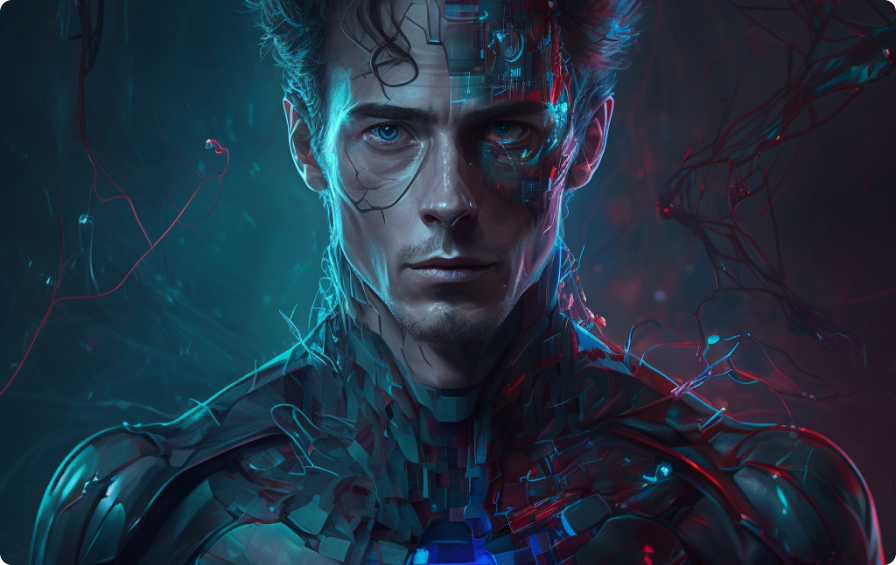
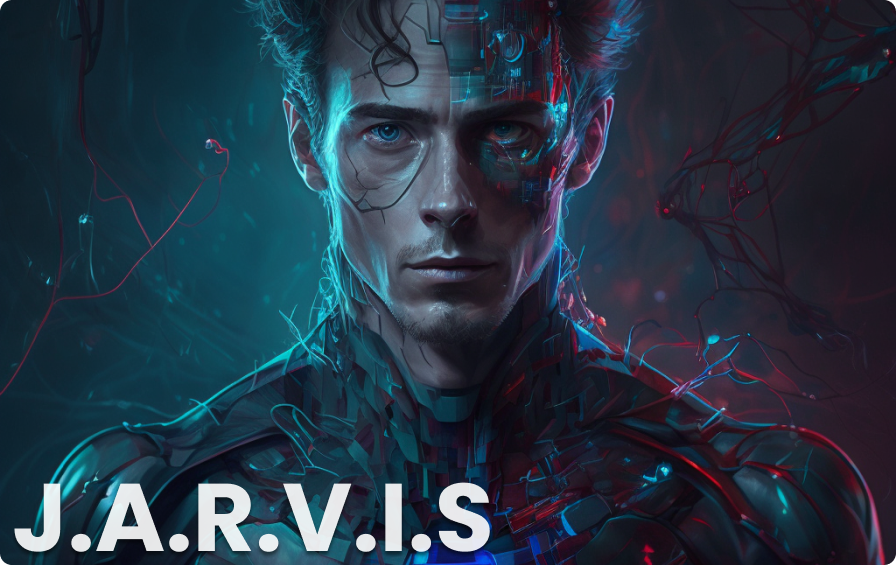
added image animation for hover

Changed region(s): [[0.0, 0.8425, 0.5625, 0.9929]]

diff --git a/src/components/portfolio/FeaturedProjectCard.tsx b/src/components/portfolio/FeaturedProjectCard.tsx
@@ -18,31 +18,36 @@ const FeaturedProjectCard = (props: Props) => {
   return (
     <div className="mt-8">
       <div className="relative m-auto text-[#00ADB5]">
-        <div className="relative mb-1 text-[14px]">Featured Project</div>
+        <div className="relative mb-1 text-[14px] lg:ml-[180px]">
+          Featured Project
+        </div>
       </div>
-      <img
-        className="hidden sm:w-full sm:justify-center sm:overflow-hidden sm:opacity-30 sm:hover:opacity-100 md:w-[50%]"
-        src={props.image}
-        alt="project image"
-      />
-      <div className="relative m-auto w-[100%] rounded-xl bg-[#393E46] p-8 text-[14px] text-white shadow-xl drop-shadow-lg lg:w-[70%]">
+
+      <div className="relative  m-auto w-[100%] rounded-xl bg-[#393E46] p-8 text-[14px] text-white shadow-xl drop-shadow-lg lg:w-[70%]">
+        <img
+          className=" mx-auto hidden transform shadow-xl transition-all duration-300 hover:scale-105 sm:block sm:w-3/4 sm:justify-center sm:overflow-hidden sm:opacity-30 sm:hover:opacity-100  md:w-[80%]"
+          src={props.image}
+          alt="project image"
+        />
         <div
           className={`mb-8 text-center text-5xl font-bold drop-shadow-lg md:text-6xl lg:text-7xl ${props.fontFamily}`}
         >
           {props.title}
         </div>
-
         <div className="text-center text-[14px] font-normal text-[#EEEEEE] underline">
           Built with:
         </div>
         <div className="flex items-center justify-center ">
           {props.techUsed.map((tech) => (
             <div className="mr-1 inline-block rounded-md text-end text-[12px] text-white">
-              <img className="mt-2 h-10 w-10" src={tech} alt="Skill Icons" />
+              <img
+                className="mt-2 h-10 w-10 md:h-12 md:w-12 "
+                src={tech}
+                alt="Skill Icons"
+              />
             </div>
           ))}
         </div>
-
         <div className="mx-auto mb-4 mt-8 h-[1px] w-[70%] bg-[#00ADB5] text-center drop-shadow-md"></div>
         <div className="mx-auto w-[80%] text-[14px] font-normal text-[#EEEEEE]">
           <ul className="relative">

diff --git a/src/App.tsx b/src/App.tsx
@@ -109,7 +109,7 @@ function App() {
           <br />
           <div className="">
             <FeaturedProjectCard
-              title={"fmly"}
+              title={""}
               description1={
                 "fmly is an application that enables families to utilize technology to keep a household running smoothly."
               }
@@ -135,7 +135,7 @@ function App() {
           </div>
           <div className="">
             <FeaturedProjectCard
-              title={"J.A.R.V.I.S."}
+              title={""}
               description1={
                 "J.A.R.V.I.S or Just A Rather Very Intelligent System consumes the OpenAI API to be able to interact with various models that are available!"
               }
